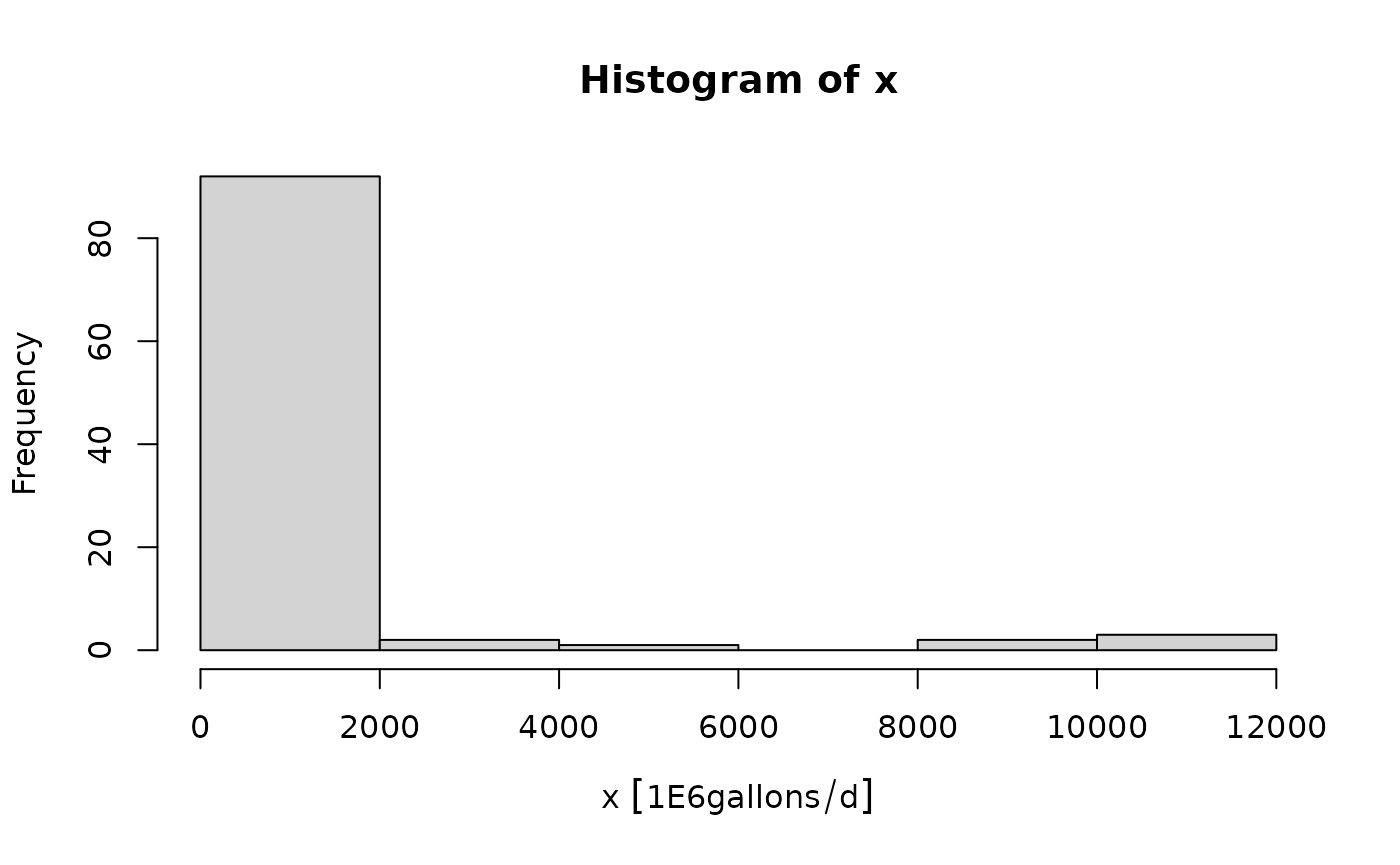
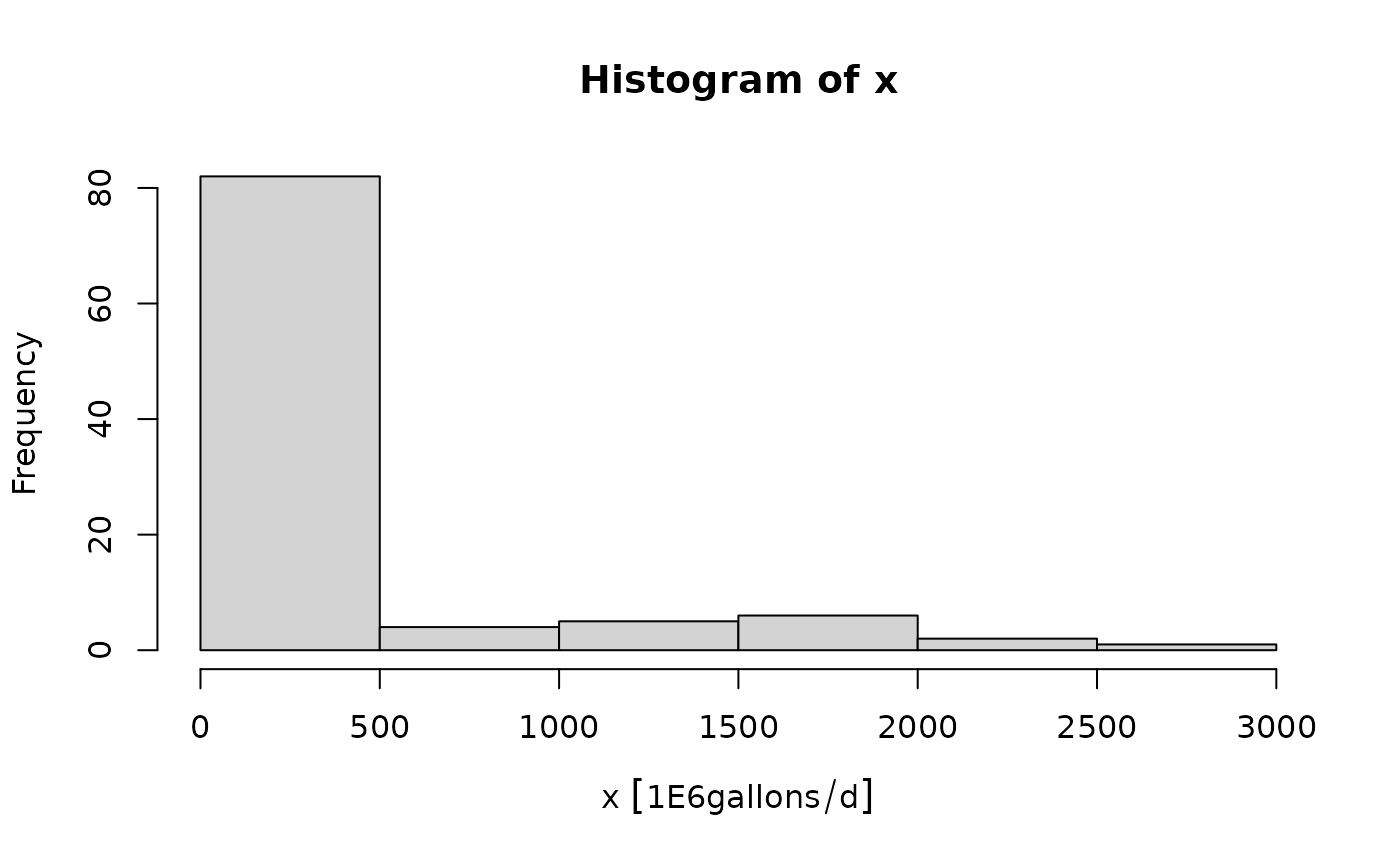
Built site for ldc: 0.1.0@d921bc9

diff --git a/articles/units.html b/articles/units.html
@@ -107,76 +107,76 @@
 <span class="va">x</span> <span class="op">&lt;-</span> <span class="fu"><a href="https://rdrr.io/pkg/units/man/units.html" class="external-link">set_units</a></span><span class="op">(</span><span class="va">x</span>, <span class="st">"ft^3/s"</span><span class="op">)</span>
 <span class="va">x</span>
 <span class="co">#&gt; Units: [ft^3/s]</span>
-<span class="co">#&gt;   [1] 2.023560e+01 2.608523e+03 3.312524e+03 3.317604e+01 2.950533e+00</span>
-<span class="co">#&gt;   [6] 8.599740e+02 1.642472e+04 1.088207e+03 1.430528e+01 1.150638e+01</span>
-<span class="co">#&gt;  [11] 3.879172e+02 2.652154e+01 1.793561e+02 2.603726e+01 2.959461e+01</span>
-<span class="co">#&gt;  [16] 1.348817e+04 8.764529e+01 4.196290e+01 4.470503e+02 1.450761e+03</span>
-<span class="co">#&gt;  [21] 4.134901e+02 2.621091e+00 5.355766e+03 6.614119e+01 4.527657e+00</span>
-<span class="co">#&gt;  [26] 1.068277e+01 4.806433e+00 2.091338e+00 5.022147e+02 2.362998e+02</span>
-<span class="co">#&gt;  [31] 1.445545e+03 2.907366e+01 3.776319e+02 1.183151e+01 2.811514e+00</span>
-<span class="co">#&gt;  [36] 2.444972e+02 3.372015e+01 1.520378e+01 4.649219e+02 1.783216e+02</span>
-<span class="co">#&gt;  [41] 1.506162e+00 2.764443e+03 1.214095e+03 7.054125e+01 1.695514e+02</span>
-<span class="co">#&gt;  [46] 1.028688e+00 1.515067e+02 1.156141e+03 4.947819e+00 2.174842e+00</span>
-<span class="co">#&gt;  [51] 3.633372e+01 3.220690e+01 7.313852e+02 4.300250e+02 5.895149e+01</span>
-<span class="co">#&gt;  [56] 7.609113e-01 1.008119e+03 8.725367e+02 2.784651e+01 7.266846e+00</span>
-<span class="co">#&gt;  [61] 2.004354e+03 1.303137e+02 3.907920e+02 7.173164e+01 3.783813e+01</span>
-<span class="co">#&gt;  [66] 7.596066e+03 6.438771e+00 5.661722e+00 3.072826e+02 1.770326e+04</span>
-<span class="co">#&gt;  [71] 8.382456e+02 1.068121e+01 3.214015e+00 6.178418e+02 6.686442e+00</span>
-<span class="co">#&gt;  [76] 4.205244e+02 5.612940e+01 8.086835e+02 6.695469e+01 1.578587e+02</span>
-<span class="co">#&gt;  [81] 1.465276e+02 1.473067e+04 1.537622e+03 1.012361e-01 1.637506e+00</span>
-<span class="co">#&gt;  [86] 5.731607e+00 3.882373e+02 2.582206e+02 8.445405e+02 9.213815e+02</span>
-<span class="co">#&gt;  [91] 5.295920e+02 2.636938e+00 1.139278e+02 2.862176e+02 1.273497e+02</span>
-<span class="co">#&gt;  [96] 1.750415e+02 2.866540e+02 9.851353e+01 3.029501e+02 1.675946e+04</span></code></pre></div>
+<span class="co">#&gt;   [1]   19.9101262   85.3201035    4.6322935   57.5754908 1882.6949699</span>
+<span class="co">#&gt;   [6]  299.6057510    4.7218880  444.6182161    4.3605167  296.7863618</span>
+<span class="co">#&gt;  [11] 3452.4705500   24.6807607  111.5494519  120.8911970   53.3408842</span>
+<span class="co">#&gt;  [16] 4381.2494822   93.2068149    1.4081166    0.7166182    9.2366291</span>
+<span class="co">#&gt;  [21] 2820.8319518  487.6546226 3405.6609165  202.5687541  128.5898372</span>
+<span class="co">#&gt;  [26]  698.1518746    3.8207011  204.4990954 2327.7589887 2308.9841968</span>
+<span class="co">#&gt;  [31]  875.5957060   54.5485540 1477.9212049    6.1653877  127.4194866</span>
+<span class="co">#&gt;  [36]  219.7361209    2.3708132   56.3001511   29.8764930    1.2420633</span>
+<span class="co">#&gt;  [41]  158.4977862   42.8425227   21.9556797  122.4595398 1681.5536891</span>
+<span class="co">#&gt;  [46]  271.1072598  647.4798378  356.1408216   93.7624745 1714.2261222</span>
+<span class="co">#&gt;  [51]   12.1269639  651.1800815 2398.2598904    4.0805299   72.3288915</span>
+<span class="co">#&gt;  [56]    0.4068227   51.9773611   57.3494916   13.9539869  331.4525510</span>
+<span class="co">#&gt;  [61]   42.0752217   37.0917901  112.4604581   17.8290961   91.3535180</span>
+<span class="co">#&gt;  [66] 3089.9904287  628.1115498   77.8363146 1228.1766412   64.6209464</span>
+<span class="co">#&gt;  [71]   68.8879541  405.7639302 1762.9131012    0.1488861 1176.9827200</span>
+<span class="co">#&gt;  [76]    1.2459762  118.2232335 3062.0383455  416.2057011    5.5853330</span>
+<span class="co">#&gt;  [81]   90.6454080    2.1725603  175.3547413  189.5831028   58.3820797</span>
+<span class="co">#&gt;  [86]   15.9217423   14.0204886   33.5836504  527.1010733 2620.0361791</span>
+<span class="co">#&gt;  [91]  148.4187011   15.5522542   67.3575265   17.6289640    8.1189989</span>
+<span class="co">#&gt;  [96]   25.3786225    5.3761203  313.3404179  360.9288547   52.9708575</span></code></pre></div>
 <p>x is a object of type units which can be used with most R expressions:</p>
 <div class="sourceCode" id="cb3"><pre class="downlit sourceCode r">
 <code class="sourceCode R"><span class="va">x</span> <span class="op">*</span> <span class="fl">86400</span>
 <span class="co">#&gt; Units: [ft^3/s]</span>
-<span class="co">#&gt;   [1] 1.748356e+06 2.253764e+08 2.862020e+08 2.866410e+06 2.549260e+05</span>
-<span class="co">#&gt;   [6] 7.430175e+07 1.419096e+09 9.402108e+07 1.235977e+06 9.941510e+05</span>
-<span class="co">#&gt;  [11] 3.351604e+07 2.291461e+06 1.549637e+07 2.249619e+06 2.556975e+06</span>
-<span class="co">#&gt;  [16] 1.165377e+09 7.572553e+06 3.625594e+06 3.862514e+07 1.253458e+08</span>
-<span class="co">#&gt;  [21] 3.572554e+07 2.264623e+05 4.627382e+08 5.714599e+06 3.911896e+05</span>
-<span class="co">#&gt;  [26] 9.229914e+05 4.152758e+05 1.806916e+05 4.339135e+07 2.041630e+07</span>
-<span class="co">#&gt;  [31] 1.248951e+08 2.511965e+06 3.262740e+07 1.022242e+06 2.429148e+05</span>
-<span class="co">#&gt;  [36] 2.112456e+07 2.913421e+06 1.313607e+06 4.016925e+07 1.540699e+07</span>
-<span class="co">#&gt;  [41] 1.301324e+05 2.388479e+08 1.048978e+08 6.094764e+06 1.464924e+07</span>
-<span class="co">#&gt;  [46] 8.887867e+04 1.309018e+07 9.989056e+07 4.274916e+05 1.879064e+05</span>
-<span class="co">#&gt;  [51] 3.139234e+06 2.782676e+06 6.319168e+07 3.715416e+07 5.093408e+06</span>
-<span class="co">#&gt;  [56] 6.574274e+04 8.710151e+07 7.538717e+07 2.405939e+06 6.278555e+05</span>
-<span class="co">#&gt;  [61] 1.731762e+08 1.125910e+07 3.376443e+07 6.197614e+06 3.269214e+06</span>
-<span class="co">#&gt;  [66] 6.563001e+08 5.563098e+05 4.891728e+05 2.654922e+07 1.529561e+09</span>
-<span class="co">#&gt;  [71] 7.242442e+07 9.228568e+05 2.776909e+05 5.338153e+07 5.777086e+05</span>
-<span class="co">#&gt;  [76] 3.633331e+07 4.849580e+06 6.987025e+07 5.784885e+06 1.363899e+07</span>
-<span class="co">#&gt;  [81] 1.265998e+07 1.272730e+09 1.328505e+08 8.746801e+03 1.414805e+05</span>
-<span class="co">#&gt;  [86] 4.952108e+05 3.354370e+07 2.231026e+07 7.296830e+07 7.960736e+07</span>
-<span class="co">#&gt;  [91] 4.575675e+07 2.278314e+05 9.843365e+06 2.472920e+07 1.100301e+07</span>
-<span class="co">#&gt;  [96] 1.512359e+07 2.476690e+07 8.511569e+06 2.617489e+07 1.448017e+09</span></code></pre></div>
+<span class="co">#&gt;   [1]   1720234.90   7371656.94    400230.15   4974522.40 162664845.40</span>
+<span class="co">#&gt;   [6]  25885936.89    407971.12  38415013.87    376748.64  25642341.66</span>
+<span class="co">#&gt;  [11] 298293455.52   2132417.73   9637872.64  10444999.42   4608652.39</span>
+<span class="co">#&gt;  [16] 378539955.26   8053068.81    121661.27     61915.81    798044.76</span>
+<span class="co">#&gt;  [21] 243719880.64  42133359.39 294249103.19  17501940.36  11110161.93</span>
+<span class="co">#&gt;  [26]  60320321.97    330108.58  17668721.84 201118376.62 199496234.61</span>
+<span class="co">#&gt;  [31]  75651469.00   4712995.07 127692392.10    532689.50  11009043.64</span>
+<span class="co">#&gt;  [36]  18985200.84    204838.26   4864333.06   2581329.00    107314.27</span>
+<span class="co">#&gt;  [41]  13694208.72   3701593.96   1896970.72  10580504.24 145286238.74</span>
+<span class="co">#&gt;  [46]  23423667.25  55942257.99  30770566.99   8101077.80 148109136.96</span>
+<span class="co">#&gt;  [51]   1047769.68  56261959.04 207209654.53    352557.78   6249216.23</span>
+<span class="co">#&gt;  [56]     35149.49   4490844.00   4954996.07   1205624.46  28637500.40</span>
+<span class="co">#&gt;  [61]   3635299.16   3204730.66   9716583.58   1540433.91   7892943.96</span>
+<span class="co">#&gt;  [66] 266975173.04  54268837.90   6725057.58 106114461.80   5583249.77</span>
+<span class="co">#&gt;  [71]   5951919.24  35058003.57 152315691.94     12863.76 101691307.01</span>
+<span class="co">#&gt;  [76]    107652.34  10214487.38 264560113.05  35960172.58    482572.77</span>
+<span class="co">#&gt;  [81]   7831763.25    187709.21  15150649.65  16379980.08   5044211.68</span>
+<span class="co">#&gt;  [86]   1375638.53   1211370.21   2901627.40  45541532.74 226371125.87</span>
+<span class="co">#&gt;  [91]  12823375.77   1343714.76   5819690.29   1523142.49    701481.50</span>
+<span class="co">#&gt;  [96]   2192712.98    464496.80  27072612.10  31184253.04   4576682.08</span></code></pre></div>
 <p>The units can be converted:</p>
 <div class="sourceCode" id="cb4"><pre class="downlit sourceCode r">
 <code class="sourceCode R"><span class="co">## convert to cubic feet per day</span>
 <span class="va">x</span> <span class="op">&lt;-</span> <span class="fu"><a href="https://rdrr.io/pkg/units/man/units.html" class="external-link">set_units</a></span><span class="op">(</span><span class="va">x</span>, <span class="st">"ft^3/d"</span><span class="op">)</span>
 <span class="va">x</span>
 <span class="co">#&gt; Units: [ft^3/d]</span>
-<span class="co">#&gt;   [1] 1.748356e+06 2.253764e+08 2.862020e+08 2.866410e+06 2.549260e+05</span>
-<span class="co">#&gt;   [6] 7.430175e+07 1.419096e+09 9.402108e+07 1.235977e+06 9.941510e+05</span>
-<span class="co">#&gt;  [11] 3.351604e+07 2.291461e+06 1.549637e+07 2.249619e+06 2.556975e+06</span>
-<span class="co">#&gt;  [16] 1.165377e+09 7.572553e+06 3.625594e+06 3.862514e+07 1.253458e+08</span>
-<span class="co">#&gt;  [21] 3.572554e+07 2.264623e+05 4.627382e+08 5.714599e+06 3.911896e+05</span>
-<span class="co">#&gt;  [26] 9.229914e+05 4.152758e+05 1.806916e+05 4.339135e+07 2.041630e+07</span>
-<span class="co">#&gt;  [31] 1.248951e+08 2.511965e+06 3.262740e+07 1.022242e+06 2.429148e+05</span>
-<span class="co">#&gt;  [36] 2.112456e+07 2.913421e+06 1.313607e+06 4.016925e+07 1.540699e+07</span>
-<span class="co">#&gt;  [41] 1.301324e+05 2.388479e+08 1.048978e+08 6.094764e+06 1.464924e+07</span>
-<span class="co">#&gt;  [46] 8.887867e+04 1.309018e+07 9.989056e+07 4.274916e+05 1.879064e+05</span>
-<span class="co">#&gt;  [51] 3.139234e+06 2.782676e+06 6.319168e+07 3.715416e+07 5.093408e+06</span>
-<span class="co">#&gt;  [56] 6.574274e+04 8.710151e+07 7.538717e+07 2.405939e+06 6.278555e+05</span>
-<span class="co">#&gt;  [61] 1.731762e+08 1.125910e+07 3.376443e+07 6.197614e+06 3.269214e+06</span>
-<span class="co">#&gt;  [66] 6.563001e+08 5.563098e+05 4.891728e+05 2.654922e+07 1.529561e+09</span>
-<span class="co">#&gt;  [71] 7.242442e+07 9.228568e+05 2.776909e+05 5.338153e+07 5.777086e+05</span>
-<span class="co">#&gt;  [76] 3.633331e+07 4.849580e+06 6.987025e+07 5.784885e+06 1.363899e+07</span>
-<span class="co">#&gt;  [81] 1.265998e+07 1.272730e+09 1.328505e+08 8.746801e+03 1.414805e+05</span>
-<span class="co">#&gt;  [86] 4.952108e+05 3.354370e+07 2.231026e+07 7.296830e+07 7.960736e+07</span>
-<span class="co">#&gt;  [91] 4.575675e+07 2.278314e+05 9.843365e+06 2.472920e+07 1.100301e+07</span>
-<span class="co">#&gt;  [96] 1.512359e+07 2.476690e+07 8.511569e+06 2.617489e+07 1.448017e+09</span></code></pre></div>
+<span class="co">#&gt;   [1]   1720234.90   7371656.94    400230.15   4974522.40 162664845.40</span>
+<span class="co">#&gt;   [6]  25885936.89    407971.12  38415013.87    376748.64  25642341.66</span>
+<span class="co">#&gt;  [11] 298293455.52   2132417.73   9637872.64  10444999.42   4608652.39</span>
+<span class="co">#&gt;  [16] 378539955.26   8053068.81    121661.27     61915.81    798044.76</span>
+<span class="co">#&gt;  [21] 243719880.64  42133359.39 294249103.19  17501940.36  11110161.93</span>
+<span class="co">#&gt;  [26]  60320321.97    330108.58  17668721.84 201118376.62 199496234.61</span>
+<span class="co">#&gt;  [31]  75651469.00   4712995.07 127692392.10    532689.50  11009043.64</span>
+<span class="co">#&gt;  [36]  18985200.84    204838.26   4864333.06   2581329.00    107314.27</span>
+<span class="co">#&gt;  [41]  13694208.72   3701593.96   1896970.72  10580504.24 145286238.74</span>
+<span class="co">#&gt;  [46]  23423667.25  55942257.99  30770566.99   8101077.80 148109136.96</span>
+<span class="co">#&gt;  [51]   1047769.68  56261959.04 207209654.53    352557.78   6249216.23</span>
+<span class="co">#&gt;  [56]     35149.49   4490844.00   4954996.07   1205624.46  28637500.40</span>
+<span class="co">#&gt;  [61]   3635299.16   3204730.66   9716583.58   1540433.91   7892943.96</span>
+<span class="co">#&gt;  [66] 266975173.04  54268837.90   6725057.58 106114461.80   5583249.77</span>
+<span class="co">#&gt;  [71]   5951919.24  35058003.57 152315691.94     12863.76 101691307.01</span>
+<span class="co">#&gt;  [76]    107652.34  10214487.38 264560113.05  35960172.58    482572.77</span>
+<span class="co">#&gt;  [81]   7831763.25    187709.21  15150649.65  16379980.08   5044211.68</span>
+<span class="co">#&gt;  [86]   1375638.53   1211370.21   2901627.40  45541532.74 226371125.87</span>
+<span class="co">#&gt;  [91]  12823375.77   1343714.76   5819690.29   1523142.49    701481.50</span>
+<span class="co">#&gt;  [96]   2192712.98    464496.80  27072612.10  31184253.04   4576682.08</span></code></pre></div>
 <p>Units can be plotted:</p>
 <div class="sourceCode" id="cb5"><pre class="downlit sourceCode r">
 <code class="sourceCode R"><span class="co">## convert to million gallons per day</span>

diff --git a/reference/calc_annual_ldc.html b/reference/calc_annual_ldc.html
@@ -176,25 +176,24 @@ types 5 to 9 (see <code><a href="https://rdrr.io/r/stats/quantile.html" class="e
 <span class="r-in"><span class="va">df_ldc</span> <span class="op">&lt;-</span> <span class="fu">calc_annual_ldc</span><span class="op">(</span><span class="va">df</span>,</span>
 <span class="r-in">                   Q <span class="op">=</span> <span class="va">Flow</span>,</span>
 <span class="r-in">                   C <span class="op">=</span> <span class="va">Indicator_Bacteria</span>,</span>
+<span class="r-in">                   Date <span class="op">=</span> <span class="va">Date</span>,</span>
 <span class="r-in">                   allowable_concentration <span class="op">=</span> <span class="va">allowable_concentration</span>,</span>
 <span class="r-in">                   estimator <span class="op">=</span> <span class="fl">5</span>,</span>
 <span class="r-in">                   n <span class="op">=</span> <span class="fl">1000</span><span class="op">)</span></span>
-<span class="r-wrn co"><span class="r-pr">#&gt;</span> <span class="warning">Warning: </span>NAs introduced by coercion</span>
-<span class="r-wrn co"><span class="r-pr">#&gt;</span> <span class="warning">Warning: </span>NAs introduced by coercion</span>
 <span class="r-in"><span class="va">df_ldc</span><span class="op">$</span><span class="va">Q</span></span>
 <span class="r-out co"><span class="r-pr">#&gt;</span> <span style="color: #949494;"># A tibble: 1,000 × 11</span></span>
 <span class="r-out co"><span class="r-pr">#&gt;</span>    P_Exceedance median_Q lwr.ci_Q upr.ci_Q median_Daily_Flow… lwr.ci_Daily_Flow…</span>
 <span class="r-out co"><span class="r-pr">#&gt;</span>           <span style="color: #949494; font-style: italic;">&lt;dbl&gt;</span> <span style="color: #949494;">[ft^3/s]</span> <span style="color: #949494;">[ft^3/s]</span> <span style="color: #949494;">[ft^3/s]</span>          <span style="color: #949494;">[100mL/d]</span>          <span style="color: #949494;">[100mL/d]</span></span>
-<span class="r-out co"><span class="r-pr">#&gt;</span> <span style="color: #BCBCBC;"> 1</span>     0.000<span style="text-decoration: underline;">500</span>    <span style="text-decoration: underline;">1</span>630      -<span style="color: #BB0000;">Inf</span>      <span style="color: #BB0000;">Inf</span>       <span style="text-decoration: underline;">39</span>879<span style="text-decoration: underline;">181</span>392.               -<span style="color: #BB0000;">Inf</span></span>
-<span class="r-out co"><span class="r-pr">#&gt;</span> <span style="color: #BCBCBC;"> 2</span>     0.001<span style="text-decoration: underline;">50</span>     <span style="text-decoration: underline;">1</span>630      -<span style="color: #BB0000;">Inf</span>      <span style="color: #BB0000;">Inf</span>       <span style="text-decoration: underline;">39</span>879<span style="text-decoration: underline;">181</span>392.               -<span style="color: #BB0000;">Inf</span></span>
-<span class="r-out co"><span class="r-pr">#&gt;</span> <span style="color: #BCBCBC;"> 3</span>     0.002<span style="text-decoration: underline;">50</span>     <span style="text-decoration: underline;">1</span>630      -<span style="color: #BB0000;">Inf</span>      <span style="color: #BB0000;">Inf</span>       <span style="text-decoration: underline;">39</span>879<span style="text-decoration: underline;">181</span>392.               -<span style="color: #BB0000;">Inf</span></span>
-<span class="r-out co"><span class="r-pr">#&gt;</span> <span style="color: #BCBCBC;"> 4</span>     0.003<span style="text-decoration: underline;">50</span>     <span style="text-decoration: underline;">1</span>630      -<span style="color: #BB0000;">Inf</span>      <span style="color: #BB0000;">Inf</span>       <span style="text-decoration: underline;">39</span>879<span style="text-decoration: underline;">181</span>392.               -<span style="color: #BB0000;">Inf</span></span>
-<span class="r-out co"><span class="r-pr">#&gt;</span> <span style="color: #BCBCBC;"> 5</span>     0.004<span style="text-decoration: underline;">50</span>     <span style="text-decoration: underline;">1</span>630      -<span style="color: #BB0000;">Inf</span>      <span style="color: #BB0000;">Inf</span>       <span style="text-decoration: underline;">39</span>879<span style="text-decoration: underline;">181</span>392.               -<span style="color: #BB0000;">Inf</span></span>
-<span class="r-out co"><span class="r-pr">#&gt;</span> <span style="color: #BCBCBC;"> 6</span>     0.005<span style="text-decoration: underline;">50</span>     <span style="text-decoration: underline;">1</span>630      -<span style="color: #BB0000;">Inf</span>      <span style="color: #BB0000;">Inf</span>       <span style="text-decoration: underline;">39</span>879<span style="text-decoration: underline;">181</span>392.               -<span style="color: #BB0000;">Inf</span></span>
-<span class="r-out co"><span class="r-pr">#&gt;</span> <span style="color: #BCBCBC;"> 7</span>     0.006<span style="text-decoration: underline;">50</span>     <span style="text-decoration: underline;">1</span>630      -<span style="color: #BB0000;">Inf</span>      <span style="color: #BB0000;">Inf</span>       <span style="text-decoration: underline;">39</span>879<span style="text-decoration: underline;">181</span>392.               -<span style="color: #BB0000;">Inf</span></span>
-<span class="r-out co"><span class="r-pr">#&gt;</span> <span style="color: #BCBCBC;"> 8</span>     0.007<span style="text-decoration: underline;">50</span>     <span style="text-decoration: underline;">1</span>616.     -<span style="color: #BB0000;">Inf</span>      <span style="color: #BB0000;">Inf</span>       <span style="text-decoration: underline;">39</span>526<span style="text-decoration: underline;">874</span>514.               -<span style="color: #BB0000;">Inf</span></span>
-<span class="r-out co"><span class="r-pr">#&gt;</span> <span style="color: #BCBCBC;"> 9</span>     0.008<span style="text-decoration: underline;">50</span>     <span style="text-decoration: underline;">1</span>590.     -<span style="color: #BB0000;">Inf</span>      <span style="color: #BB0000;">Inf</span>       <span style="text-decoration: underline;">38</span>892<span style="text-decoration: underline;">722</span>132.               -<span style="color: #BB0000;">Inf</span></span>
-<span class="r-out co"><span class="r-pr">#&gt;</span> <span style="color: #BCBCBC;">10</span>     0.009<span style="text-decoration: underline;">50</span>     <span style="text-decoration: underline;">1</span>564.     -<span style="color: #BB0000;">Inf</span>      <span style="color: #BB0000;">Inf</span>       <span style="text-decoration: underline;">38</span>258<span style="text-decoration: underline;">569</span>751.               -<span style="color: #BB0000;">Inf</span></span>
+<span class="r-out co"><span class="r-pr">#&gt;</span> <span style="color: #BCBCBC;"> 1</span>     0.000<span style="text-decoration: underline;">500</span>     29.3     23.8     66.5         716<span style="text-decoration: underline;">846</span>635.         582<span style="text-decoration: underline;">284</span>980.</span>
+<span class="r-out co"><span class="r-pr">#&gt;</span> <span style="color: #BCBCBC;"> 2</span>     0.001<span style="text-decoration: underline;">50</span>      29.3     23.8     66.5         716<span style="text-decoration: underline;">846</span>635.         582<span style="text-decoration: underline;">284</span>980.</span>
+<span class="r-out co"><span class="r-pr">#&gt;</span> <span style="color: #BCBCBC;"> 3</span>     0.002<span style="text-decoration: underline;">50</span>      29.3     23.8     66.5         716<span style="text-decoration: underline;">846</span>635.         582<span style="text-decoration: underline;">284</span>980.</span>
+<span class="r-out co"><span class="r-pr">#&gt;</span> <span style="color: #BCBCBC;"> 4</span>     0.003<span style="text-decoration: underline;">50</span>      29.3     23.8     66.5         716<span style="text-decoration: underline;">846</span>635.         582<span style="text-decoration: underline;">284</span>980.</span>
+<span class="r-out co"><span class="r-pr">#&gt;</span> <span style="color: #BCBCBC;"> 5</span>     0.004<span style="text-decoration: underline;">50</span>      29.3     23.8     66.5         716<span style="text-decoration: underline;">846</span>635.         582<span style="text-decoration: underline;">284</span>980.</span>
+<span class="r-out co"><span class="r-pr">#&gt;</span> <span style="color: #BCBCBC;"> 6</span>     0.005<span style="text-decoration: underline;">50</span>      29.3     23.8     66.5         716<span style="text-decoration: underline;">846</span>635.         582<span style="text-decoration: underline;">284</span>980.</span>
+<span class="r-out co"><span class="r-pr">#&gt;</span> <span style="color: #BCBCBC;"> 7</span>     0.006<span style="text-decoration: underline;">50</span>      29.3     23.8     66.5         716<span style="text-decoration: underline;">846</span>635.         582<span style="text-decoration: underline;">284</span>980.</span>
+<span class="r-out co"><span class="r-pr">#&gt;</span> <span style="color: #BCBCBC;"> 8</span>     0.007<span style="text-decoration: underline;">50</span>      29.3     23.8     66.5         716<span style="text-decoration: underline;">846</span>635.         582<span style="text-decoration: underline;">284</span>980.</span>
+<span class="r-out co"><span class="r-pr">#&gt;</span> <span style="color: #BCBCBC;"> 9</span>     0.008<span style="text-decoration: underline;">50</span>      29.3     23.8     66.5         716<span style="text-decoration: underline;">846</span>635.         582<span style="text-decoration: underline;">284</span>980.</span>
+<span class="r-out co"><span class="r-pr">#&gt;</span> <span style="color: #BCBCBC;">10</span>     0.009<span style="text-decoration: underline;">50</span>      29.3     23.8     66.5         716<span style="text-decoration: underline;">846</span>635.         582<span style="text-decoration: underline;">284</span>980.</span>
 <span class="r-out co"><span class="r-pr">#&gt;</span> <span style="color: #949494;"># … with 990 more rows, and 5 more variables:</span></span>
 <span class="r-out co"><span class="r-pr">#&gt;</span> <span style="color: #949494;">#   upr.ci_Daily_Flow_Volume [100mL/d], median_Allowable_Daily_Load [cfu/d],</span></span>
 <span class="r-out co"><span class="r-pr">#&gt;</span> <span style="color: #949494;">#   lwr.ci_Allowable_Daily_Load [cfu/d], upr.ci_Allowable_Daily_Load [cfu/d],</span></span>
